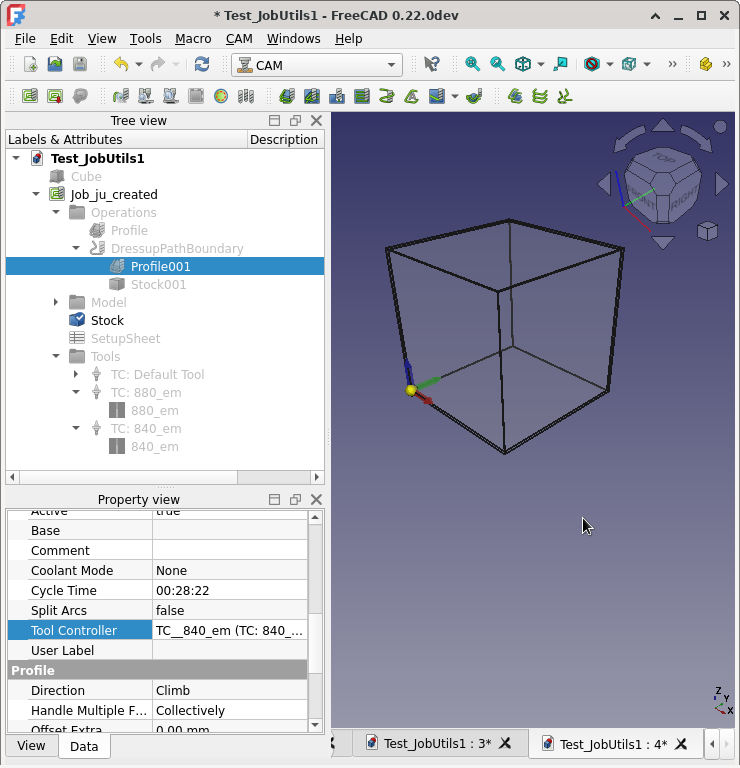
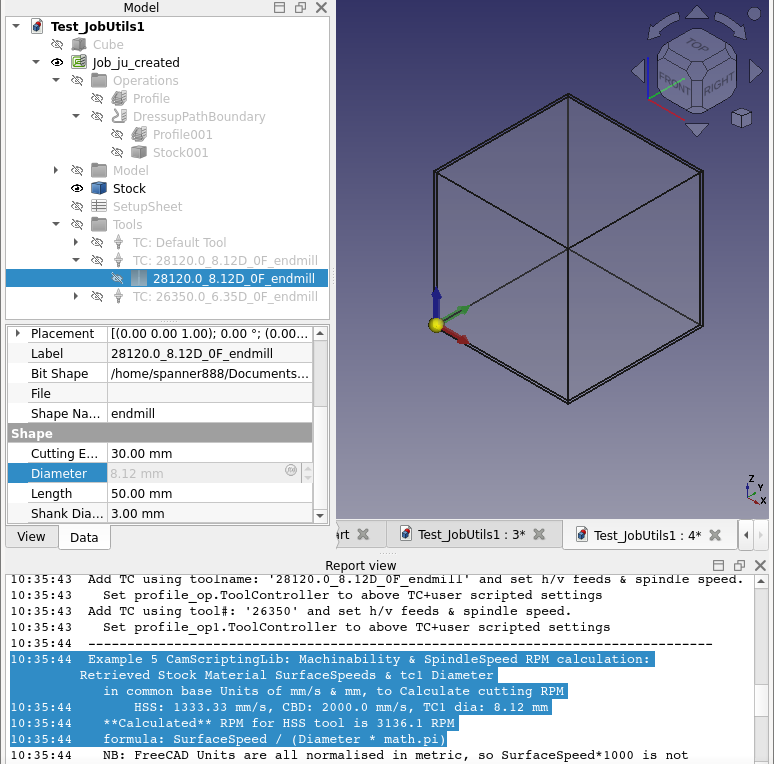
updated images

diff --git a/README.md b/README.md
@@ -26,7 +26,7 @@ TODO update image.
 2. smaller LHS + show imported tools<<< TRIMMED selction with MANY dif NAME rules!!!!!!!
 3. RHS include report view SF CALCs <<OR + 3rd image @bottom to better show report
 
-![CamFullProcessExample Tools&Tree](./images/CamFullProcessExample Tools&Tree scaled.png)
+![Naming rules example](./images/Naming rules example.png)![CamFullProcessExample](./images/CamFullProcessExample.png)
 
 ## Special mention:
 
